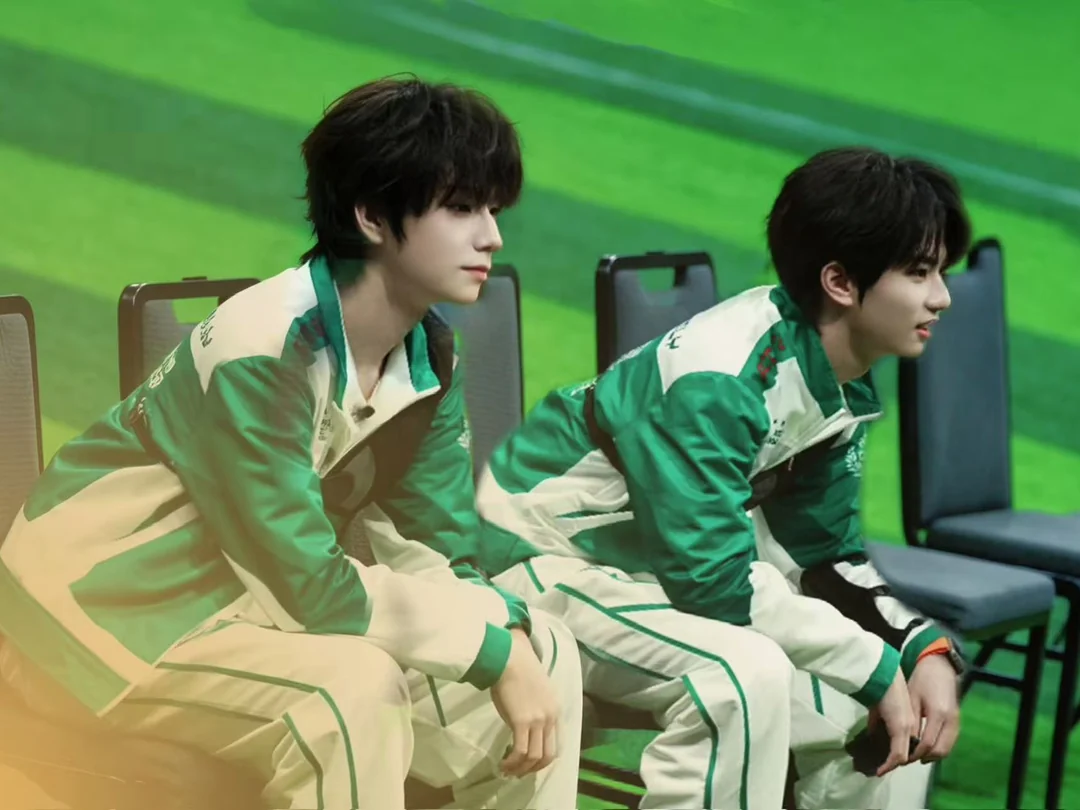
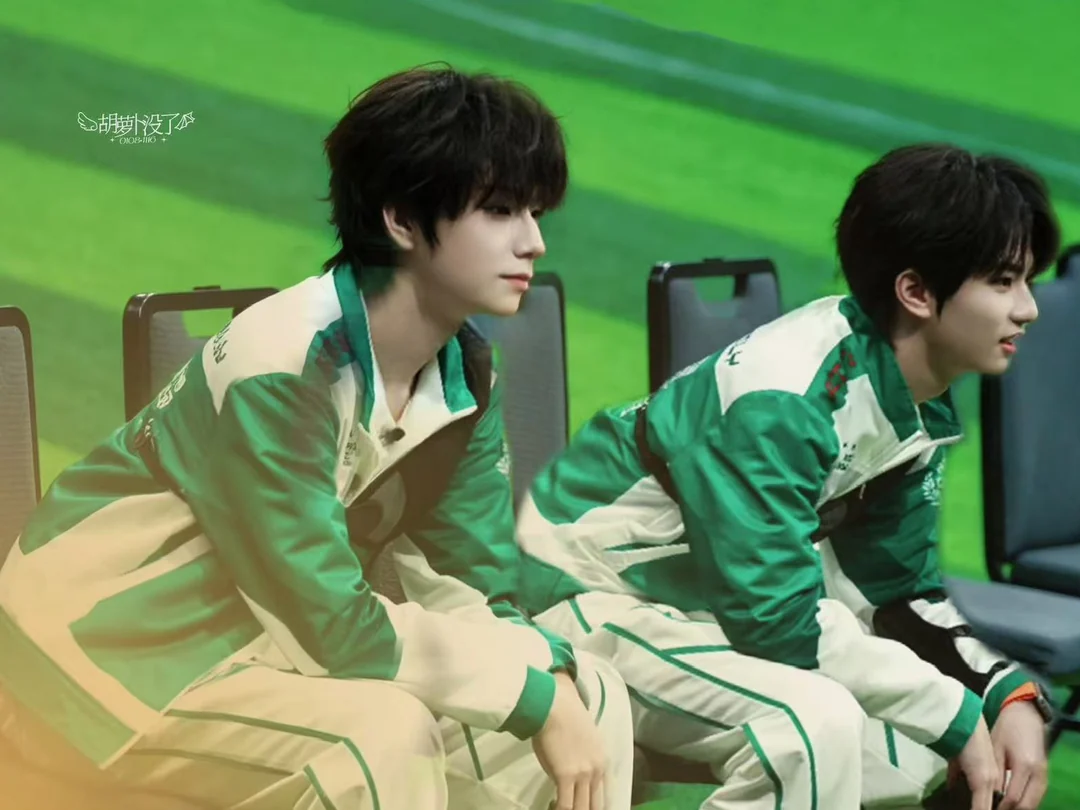
Recrop January, June and October photos to match the November composition.
Tighten the 2027-01 baseball-jersey shot to head-and-waist, center the June sideline photo, and crop the October Polaroid to the picture area so the white border is gone. Service worker bumped to v8.

diff --git a/sw.js b/sw.js
@@ -1,5 +1,5 @@
 /* 橹穆 service worker — static, cache-first, relative URLs */
-const CACHE = "cal2027-lm-v7";
+const CACHE = "cal2027-lm-v8";
 /* Shell only on install. Photos are cached at runtime (cache-first).
    The page posts {type:"precache", urls:[...]} for the current-month images. */
 const ASSETS = [
